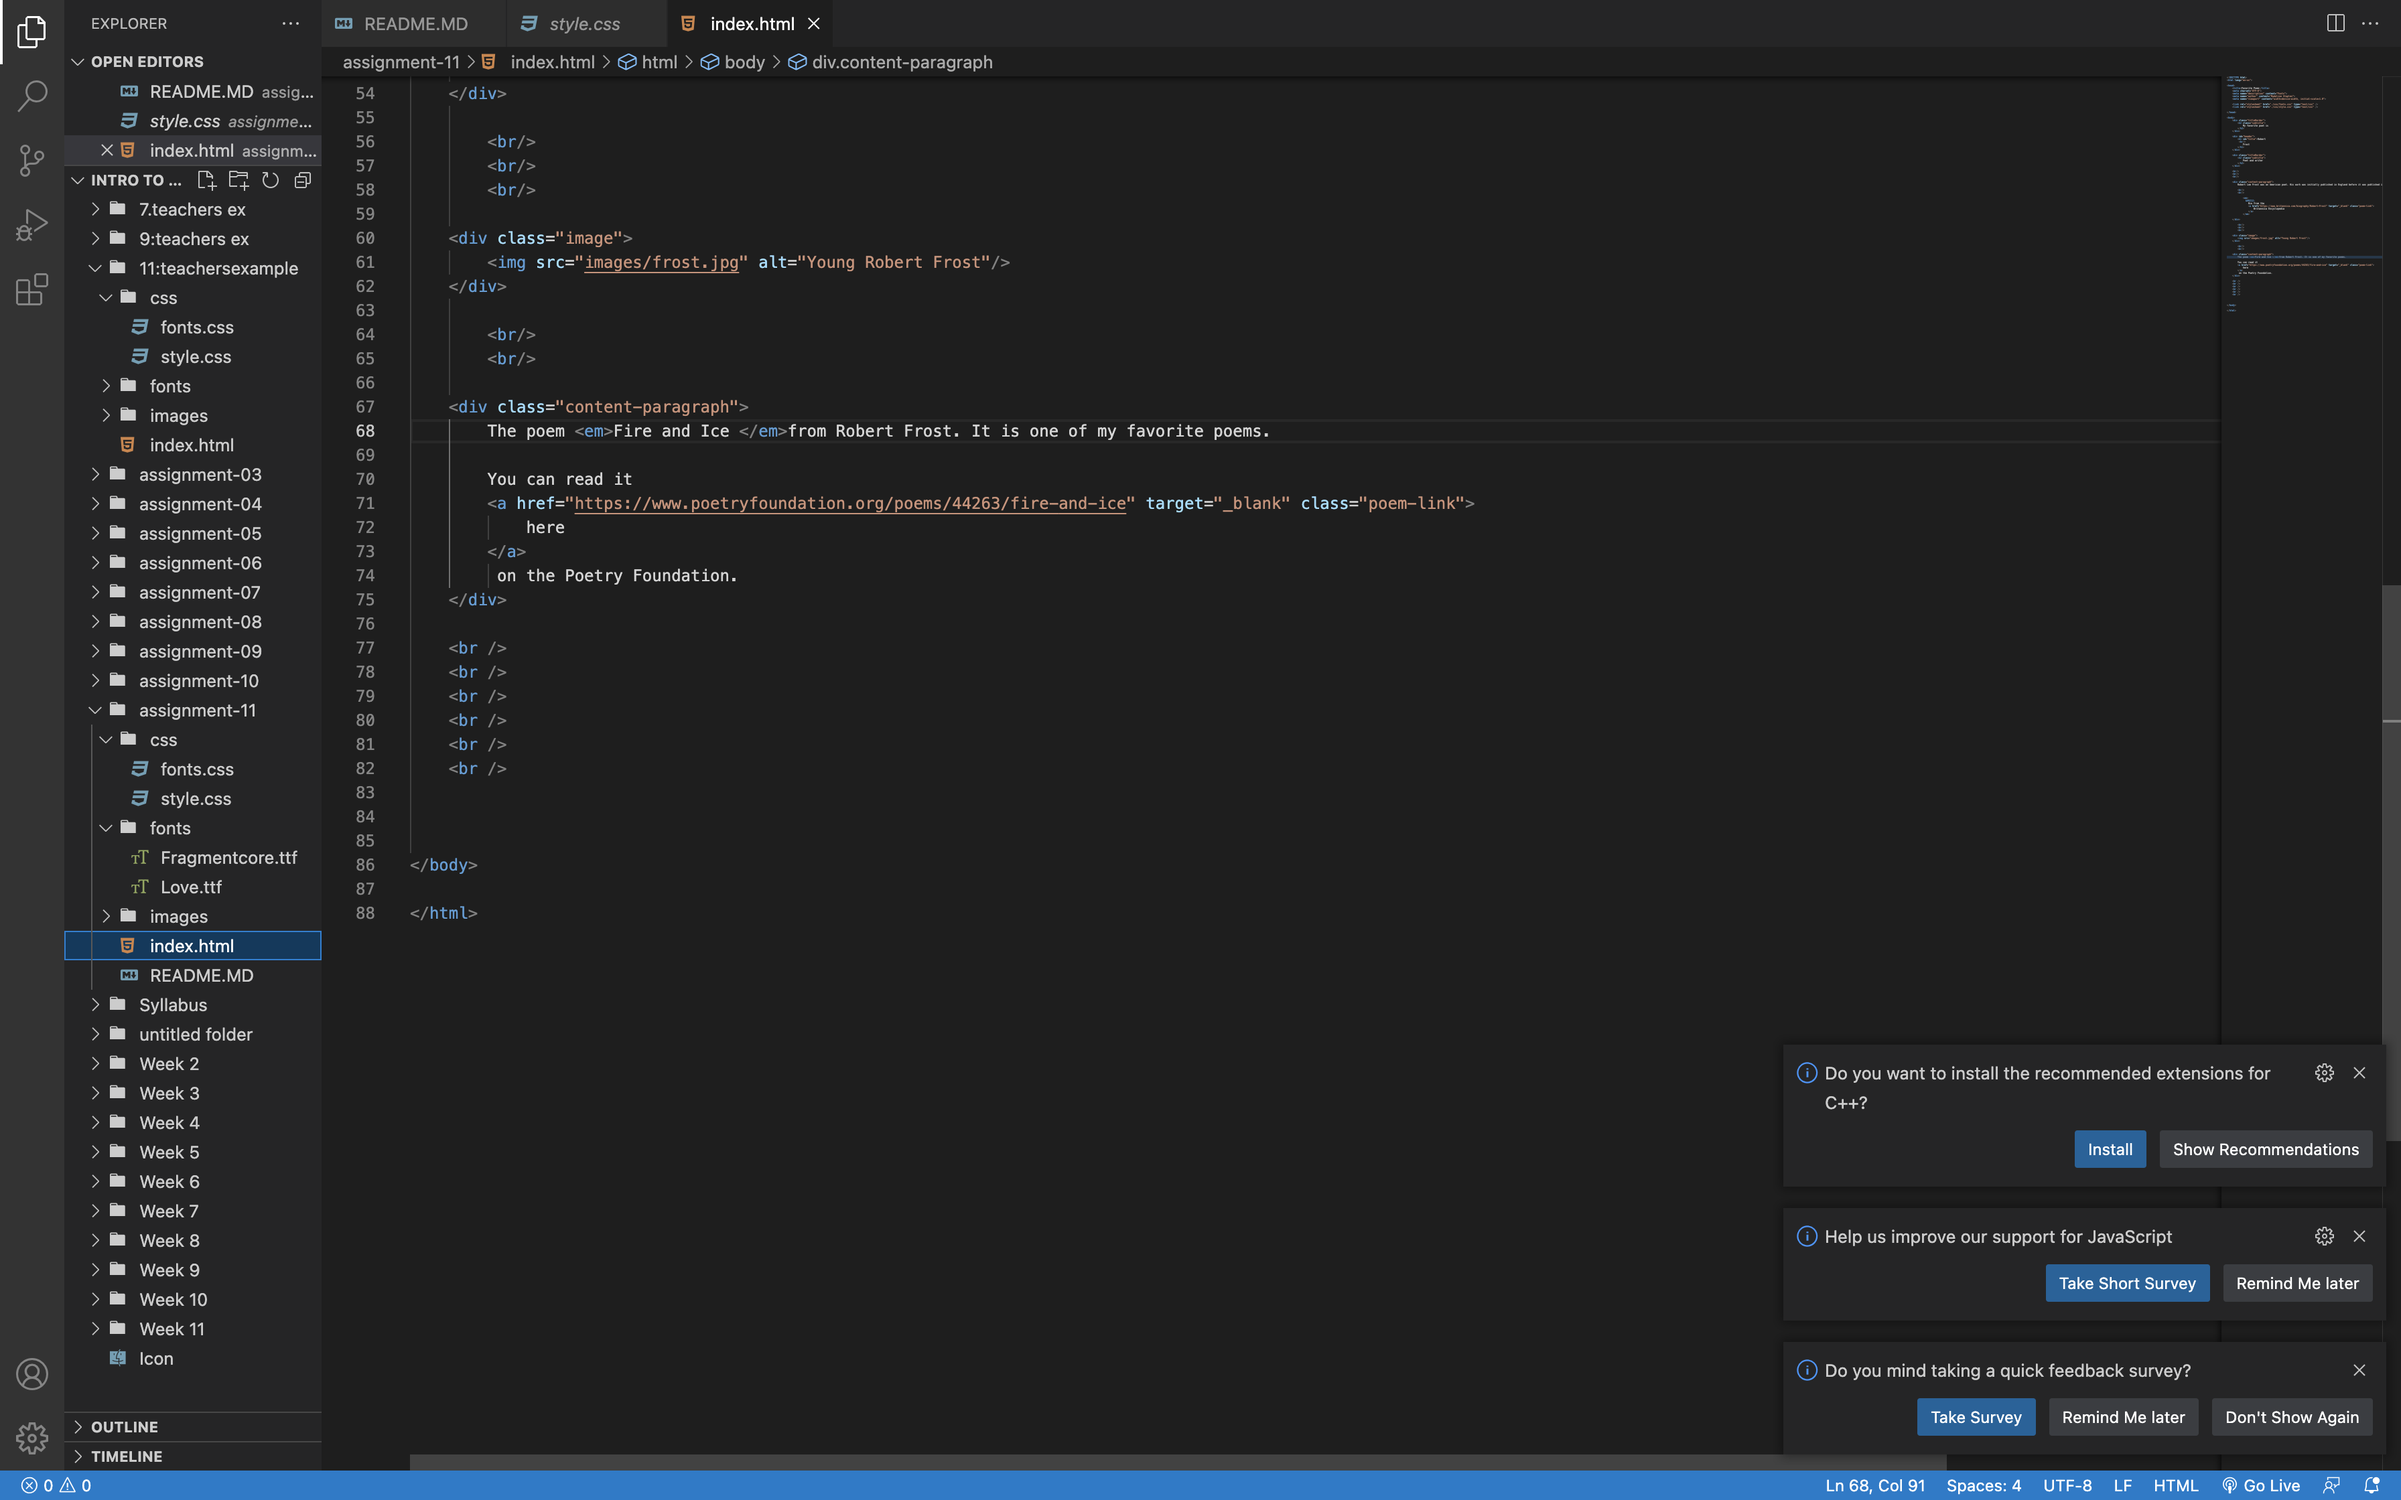
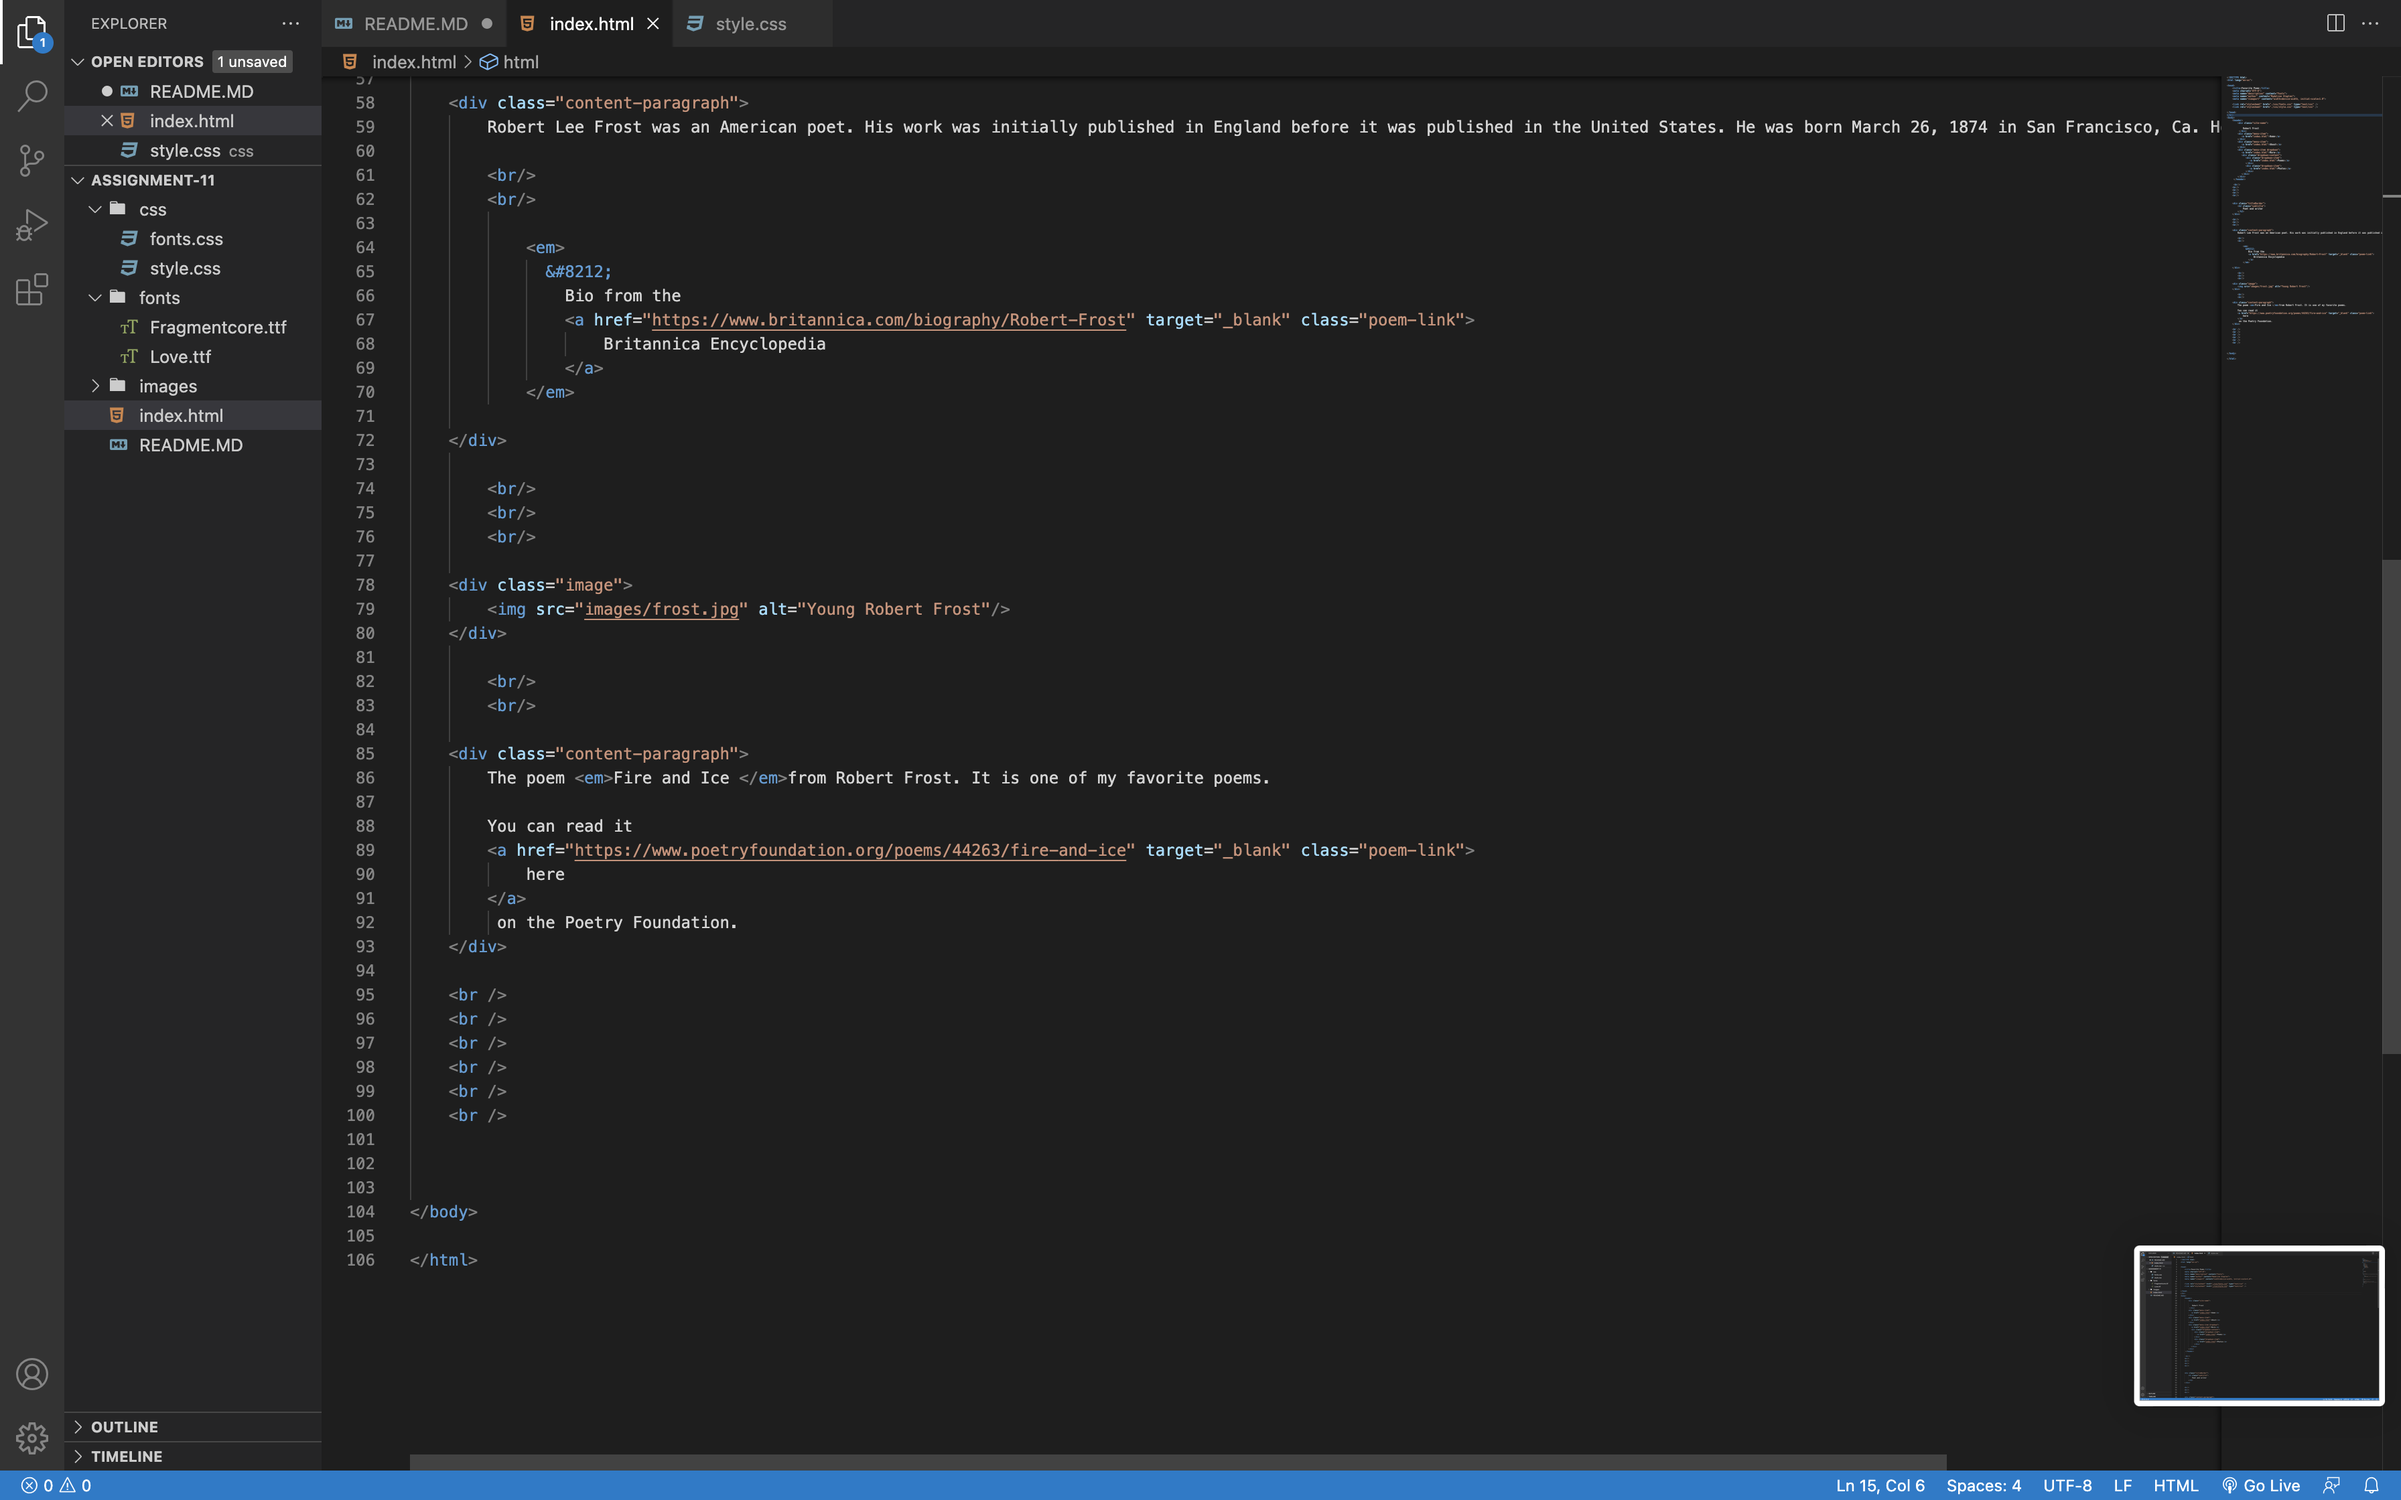
Add files via upload

diff --git a/assignment-11/css/style.css b/assignment-11/css/style.css
@@ -71,3 +71,83 @@ img {
 #img-link:hover{
     border: 50px solid #5A5A5A;
 }
+
+ /* menu */ 
+
+ header {
+    position: fixed;
+    background-color: #5A5A5A;
+    width: 99%;
+    height: 7em;
+    top: 0px;
+    font-family: Fragmentcore;
+ }
+
+ /* set the layout of the menu */
+
+ .menu-item {
+    display: inline-block;
+    margin: 1em .2em;
+    background-color: #5A5A5A;
+    padding: 0.5em 1em;
+    border-radius: 1em;
+    min-width: 6em;
+    text-align: center;
+
+ }
+
+ .menu-item:hover{
+    background-color: #ADD8E6;
+    color: #ADD8E6;
+ }
+
+ /* styling my links */
+ .menu-item a {
+    color: #333;
+    text-decoration: none;
+ }
+
+ /* dropdown */
+ .dropdown {
+    display: inline-block;
+ }
+
+ .dropdown-content {
+    display: none; 
+    position:absolute;
+    margin: 0.5em 0 0 -1em;
+    color: 000;
+    background-color: white;
+    z-index: 1;
+ }
+
+ .dropdown:hover .dropdown-content {
+    display: block;
+
+ }
+
+ .dropdown-content a{
+    color: 000 ;
+ }
+
+ /* styling the dropdown item display */
+ .dropdown-item {
+    display: block;
+    text-align: center;
+    margin: 0;
+    padding: 0.5em 1em 0.5em 1em;
+    min-width: 6em;
+
+}
+.dropdown-item:hover, .dropdown-item:hover a {
+    color: white;
+    background-color: #ADD8E6;
+}
+
+.dropdown:hover{
+    border-radius: 1em 1em 0em 0em;
+}
+
+
+
+

diff --git a/assignment-11/index.html b/assignment-11/index.html
@@ -12,20 +12,38 @@
     <link rel="stylesheet" href="./css/style.css" type="text/css" />
 
 </head>
-
+</br>
 <body>
-    <div class="titleBorder">
-        <h2 class="subtitle">
-            My favorite poet is 
-        </h2>
-    </div>
-    
-    <div id="header">
-        <h1 id="title">Robert
-         <br/>
-            Frost
-        </h1>
-    </div>
+    <header>
+        <div class="site-name">
+            
+            Robert Frost 
+         </div>
+        <div class="menu-item">
+           <a href="index.html">Home</a>
+        </div>
+        <div class="menu-item">
+           <a href="index.html">About</a>
+        </div>
+        <div class="menu-item dropdown">
+           <a href="index.html">More</a>
+           <div class="dropdown-content">
+              <div class="dropdown-item">
+                 <a href="index.html">Poems</a>
+              </div>
+              <div class="dropdown-item">
+                 <a href="index.html">Photos</a>
+              </div>
+           </div>
+        </div>
+     </header>
+
+     <br/>
+    <br/>
+    <br/>
+    <br/>
+    <br/>
+
 
     <div class="titleBorder">
         <h2 class="subtitle">

diff --git a/assignment-11/README.MD b/assignment-11/README.MD
@@ -1,18 +1,16 @@
-What is typography?
 
-Typography is the style and apperance of your text, and the details and process of designing it. 
+What is the difference between padding, margin, and borders?
 
-What is the importance of having fallback fonts or a font stack?
+Padding is used to create space around an elements content, inside of any defined borders.
+Margin sets the margins or boundaries of an element and has up to four values that need to be defined. 
+Borders are similar to margins in that they enclose an element and can have up to four values that need to be defined. However, borders can also be used for styling. 
 
-The importance of having fallback fonts, in a font stack, is for when the browser can't load your first font choice, so you want other similar ones for it to try and load before it goes to the most basic fonts. 
 
-What is the difference between a system font, web font, and web-safe font?
 
-A system font is one that is usually pre loaded on to most peoples devices, with no need for extra downloads. 
+Optional: how did this week's assignment go? What challenges did you face, and how did you overcome them?
 
-A web font is any font that is not a system font. These are fonts that are usually downloaded from elsewhere. It is the essential opposite of a system font. 
+I felt like overall this weeks assignment went well. However, I did have some difficulties with styling my header. I had some trouble with the colors beign exactly how I wanted them to be, so it definetly took some trial and error. 
 
-A web safe font is very similar to a system font. It is also usually presumed to be already on peoples devices, or is easy to load. 
 
 
 Index Screenshots
@@ -27,4 +25,6 @@ CSS Screenshots
 
 [Second](.images/-stylecss.jpg)
 
-[Third](.images/fontcss.jpg)
+[Third](.images/3stylecss.jpg)
+
+[Fourth](.images/fontcss.jpg)
